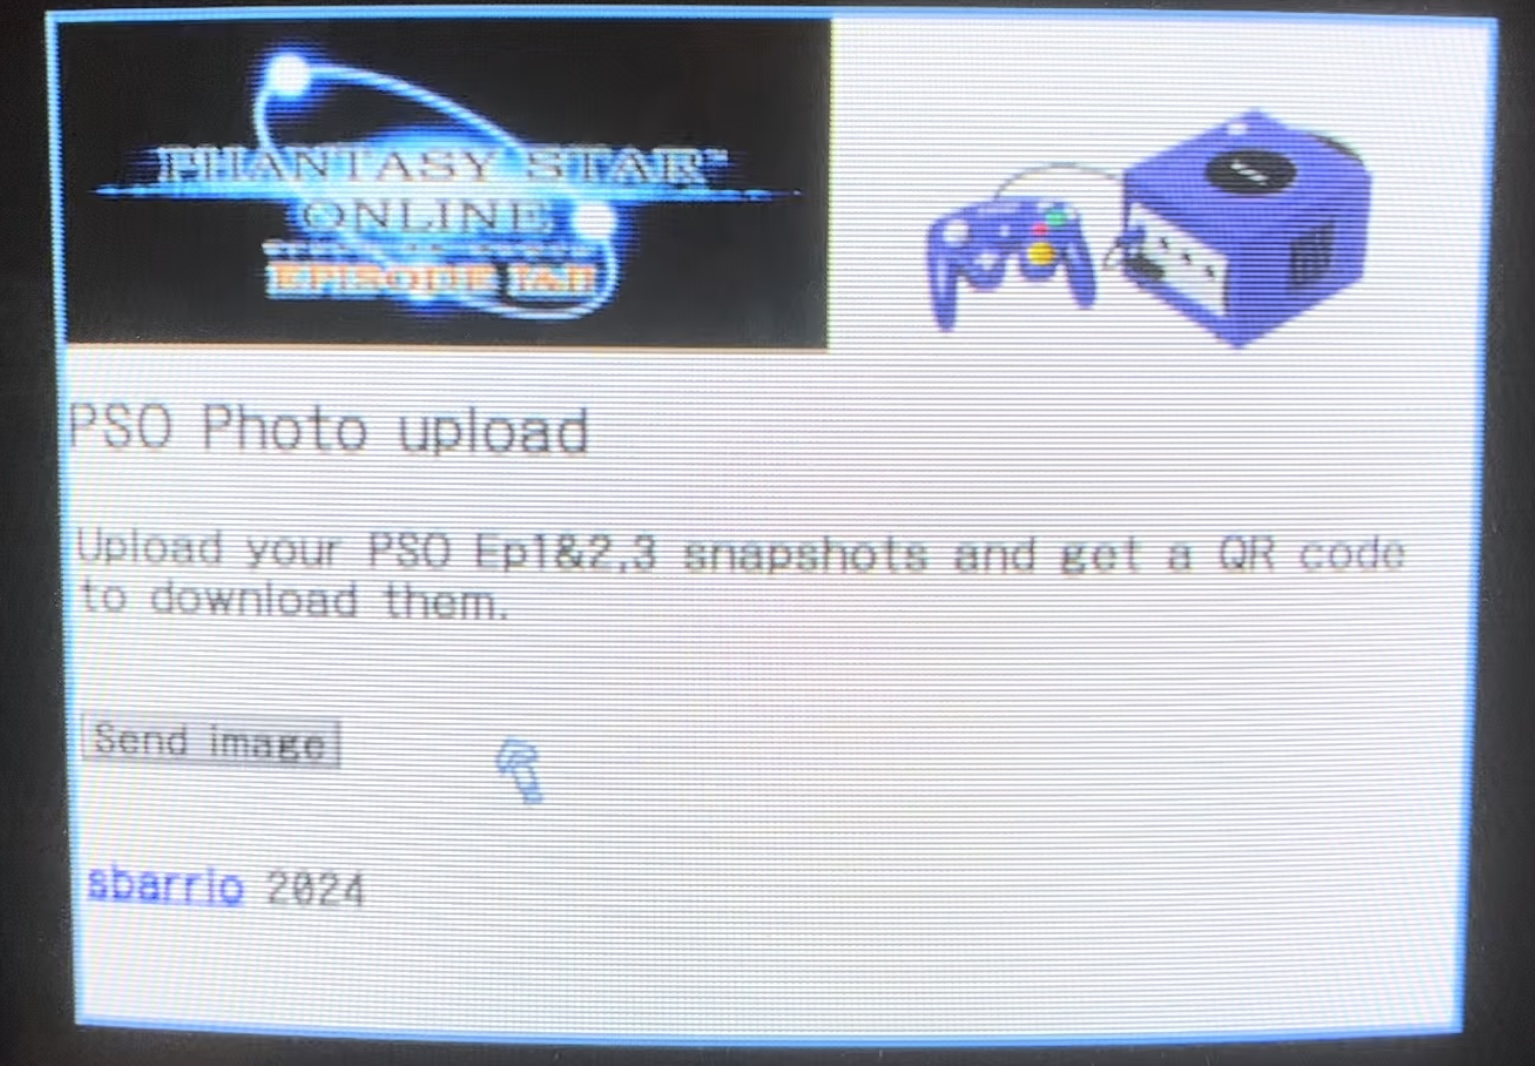
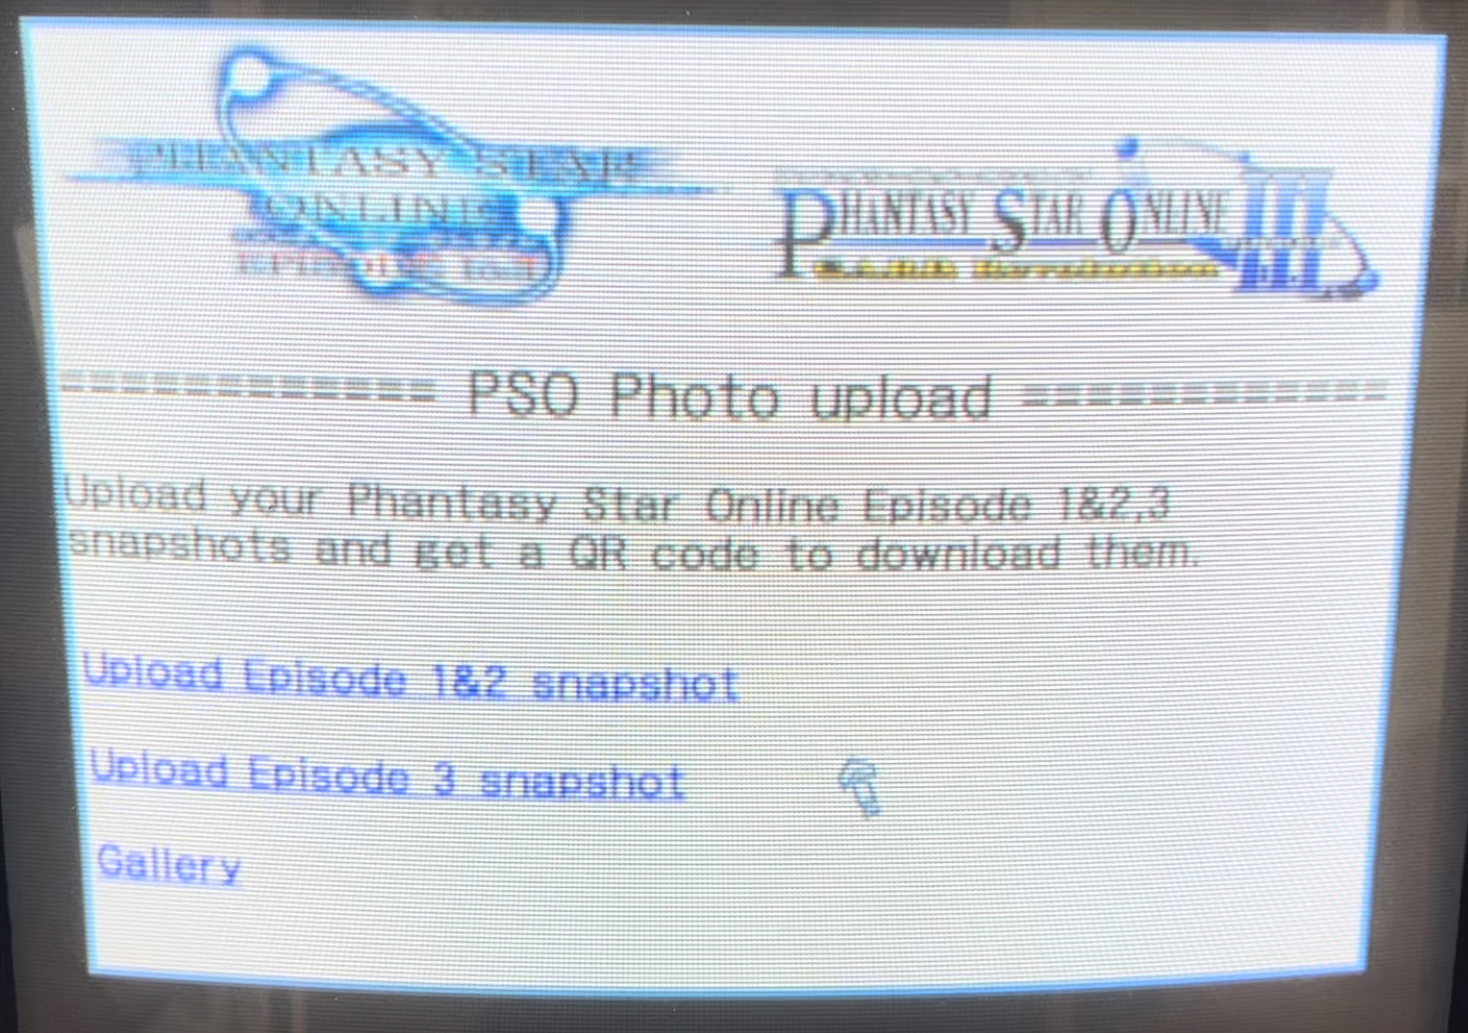
Added Episode 3 support

diff --git a/public/index.html b/public/index.html
@@ -4,21 +4,29 @@
         <title>PSO Snapshot upload</title>
     </head>
     <body>
-        <img src="images/pso_logo.jpg"/>&nbsp;&nbsp;&nbsp;&nbsp;<img width="200" src="images/gc.jpg"/>
-        <h1>PSO Photo upload</h1>
+        <img width=310 src="images/pso_ep12_logo.jpg"/><img width=310 src="images/pso_ep3_logo.jpg"/>
+        <h1>============ PSO Photo upload ============</h1>
+        <p>Upload your Phantasy Star Online Episode 1&2,3 snapshots and get a QR code to download them.</p>
+        <br>
         <table>
             <tbody>
                 <tr>
                     <td>
-                        <form action="/submit" enctype="multipart/form-data" method="POST">
-                            <p>Upload your PSO Ep1&2,3 snapshots and get a QR code to download them.</p>
-                            <input type="GCFILE" accept="PSO_SCREEN" id="gcfile" name="gcfile">
-                            <br>
-                            <input type="submit" name="submit" value="Send image">
-                        </form>
+                        <a href="/pso_ep12">Upload Episode 1&2 snapshot</a>
                     </td>
                 </tr>
-                <tr><td><br><a href="https://github.com/sbarrio">sbarrio</a> 2024</td></tr>
+                <tr><td><br></td></tr>
+                <tr>
+                    <td>
+                        <a href="/pso_ep3">Upload Episode 3 snapshot</a>
+                    </td>
+                </tr>
+                <tr><td><br></td></tr>
+                <tr>
+                    <td>
+                        <a href="/gallery">Gallery</a>
+                    </td>
+                </tr>
             </tbody>
         </table>    
     </body>

diff --git a/app.js b/app.js
@@ -52,6 +52,18 @@ app.get('/', (req, res) => {
     res.sendFile(path.join(__dirname, 'public', 'index.html'));
 });
 
+app.get('/pso_ep12', (req, res) => {
+    res.sendFile(path.join(__dirname, 'public', 'pso_ep12.html'));
+});
+
+app.get('/pso_ep3', (req, res) => {
+    res.sendFile(path.join(__dirname, 'public', 'pso_ep3.html'));
+});
+
+app.get('/gallery', (req, res) => {
+    res.send(`<p>Coming soon!</p><a href="/">Go back</a>`)
+});
+
 app.post('/submit', (req, res) => {
     let rawData = [];
     let uploadedPhotoURL = "";
@@ -60,6 +72,7 @@ app.post('/submit', (req, res) => {
         // Chunks must be treated as bytes, not strings
         rawData.push(chunk);
     });
+    console.log(req.headers);
 
     req.on('end', () => {
         try {
@@ -108,6 +121,8 @@ app.post('/submit', (req, res) => {
                         generateBitmap(fileData, filePath);
                         uploadedPhotoPath = "/uploads/" + filename; 
                         uploadedPhotoURL = "http://" + req.socket.localAddress.replace("::ffff:", "") + ":" + API_PORT + uploadedPhotoPath;
+                    } else {
+                        console.log("name: " + name + "part: " + part);
                     }
                 }
             });

diff --git a/public/pso_ep12.html b/public/pso_ep12.html
@@ -1,0 +1,23 @@
+<!DOCTYPE html PUBLIC "-//W3C//DTD HTML 4.0 Transitional//EN" "http://www.w3.org/TR/REC-html40/loose.dtd">
+<html>
+    <head>
+        <title>PSO Snapshot upload</title>
+    </head>
+    <body>
+        <img src="images/pso_ep12_logo.jpg"/>
+        <h1>Episode 1&2 upload:</h1>
+        <table>
+            <tbody>
+                <tr>
+                    <td>
+                        <form action="/submit" enctype="multipart/form-data" method="POST">
+                            <input type="GCFILE" accept="PSO_SCREEN" name="gcfile" style="display:none;">
+                            <input type="submit" name="submit" value="Upload snapshot">
+                        </form>
+                    </td>
+                </tr>
+                <tr><td><a href="/">Go back</a></td></tr>
+            </tbody>
+        </table>    
+    </body>
+</html>

diff --git a/public/pso_ep3.html b/public/pso_ep3.html
@@ -1,0 +1,23 @@
+<!DOCTYPE html PUBLIC "-//W3C//DTD HTML 4.0 Transitional//EN" "http://www.w3.org/TR/REC-html40/loose.dtd">
+<html>
+    <head>
+        <title>PSO Snapshot upload</title>
+    </head>
+    <body>
+        <img src="images/pso_ep3_logo.jpg"/>
+        <h1> Episode 3 upload: </h1>
+        <table>
+            <tbody>
+                <tr>
+                    <td>
+                        <form action="/submit" enctype="multipart/form-data" method="POST">
+                            <input type="GCFILE" accept="PSO3_SCREEN" name="gcfile" style="display:none;">
+                            <input type="submit" name="submit" value="Upload snapshot">
+                        </form>
+                    </td>
+                </tr>
+                <tr><td><a href="/">Go back</a></td></tr>
+            </tbody>
+        </table>    
+    </body>
+</html>

diff --git a/README.md b/README.md
@@ -1,6 +1,6 @@
 ## PSO Photo Uploader
 
-This is a simple node js app that sets up and exposes a basic HTML4-compliant page that enables Gamecube players of Phantasy Star Online Episode 1&2 to upload their in-game snapshots from their memory cards to a modern web server. They can then retrieve them by either snapping the generated png file directly from the server (if they are running it on their own machine) or by accessing a public url in the shape of a generated QR Code in case this is running elsewhere.
+This is a simple node js app that sets up and exposes a basic HTML4-compliant page that enables Gamecube players of Phantasy Star Online Episode 1&2,3 to upload their in-game snapshots from their memory cards to a modern web server. They can then retrieve them by either snapping the generated png file directly from the server (if they are running it on their own machine) or by accessing a public url in the shape of a generated QR Code in case this is running elsewhere.
 
 ### Motivation
 
@@ -27,16 +27,17 @@ Special thanks for the image conversion code on PSO Proxy which is still miracul
 - Now, go back to the Title Screen and select "Webpage".
 - Tap on the Front Page mentioning that you need to buy a Hunter's License to play (🥲)
 - If everything is correctly set you should reach the Upload page (see screenshots below)
-- From there, just tap on **Send Image**. If you have a valid snapshot stored on Memory Card B it will be uploaded to the server and you'll be redirected to a page containing said image and a QR code. If you scan that code you can easily download the image on your smartphone as a convenient .png file.
+- Select the Episode (1&2 or 3) from where your snapshot is coming.
+- Tap on **Upload snapshot**. If you have a valid snapshot stored on Memory Card B it will be uploaded to the server and you'll be redirected to a page containing said image and a QR code. If you scan that code you can easily download the image on your smartphone as a convenient .png file.
 
 ### Example output
 
 <img src="doc/image0.jpeg">
+<img src="doc/image7.png">
 
 ### Caveats
 
-- Episode 3 support should be easy enough too, but I haven't had the time to test it yet.
-- It would be cool to make it work for the Dreamcast versions as well (sadly I don't have a DreamPi to test it with yet). 
+- It would be cool to make it work for the Dreamcast versions as well (sadly I don't have a DreamPi to test it with yet).
 - The page styling could definitely be prettier too.
 
 ### Screenshots
